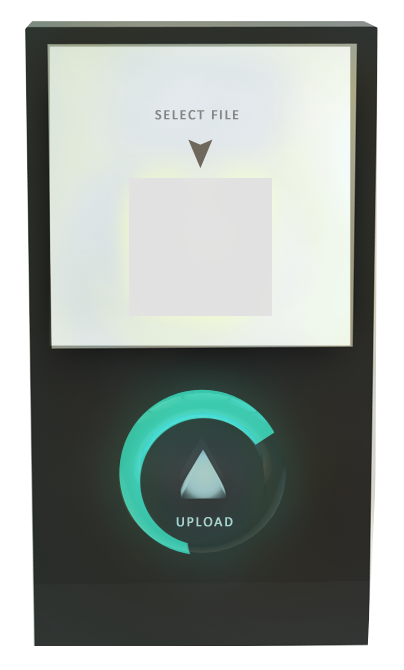
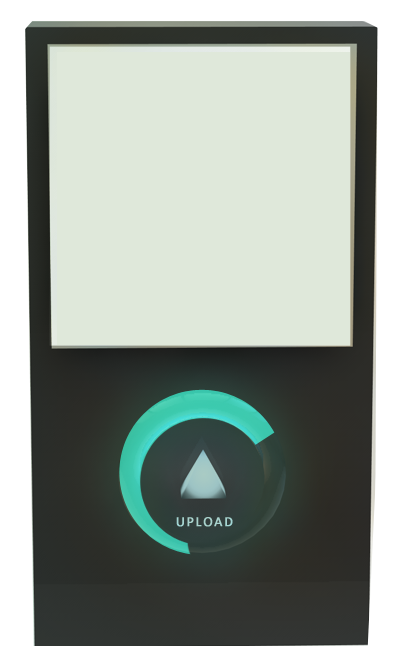
Adding upload file text and styles.

Changed region(s): [[0.802, 0.1493, 0.8911, 0.3284], [0.3861, 0.1493, 0.5941, 0.1791], [0.4752, 0.209, 0.5347, 0.2687]]

diff --git a/index.html b/index.html
@@ -12,17 +12,24 @@
         <div class="upload-area">
         
 
-            <div class="wrap">
-                <div class="cube">
-                    <div class="front"></div>
-                    <div class="back"></div>
-                    <div class="top"></div>
-                    <div class="bottom"></div>
-                    <div class="left"></div>
-                    <div class="right"></div>
+            <div class="upload-top">
+            
+                <div class="upload-file-text">
+                    <h5> Upload File </h5>
+                
                 </div>
-            </div>
-        
+                <div class="wrap">
+                    <div class="cube">
+                        <div class="front"></div>
+                        <div class="back"></div>
+                        <div class="top"></div>
+                        <div class="bottom"></div>
+                        <div class="left"></div>
+                        <div class="right"></div>
+                    </div>
+                </div>
+            
+            </div> <!--upload-top-->
         
         </div>
         <div class="main-form-area">

diff --git a/styles.css b/styles.css
@@ -40,19 +40,31 @@ body{
 }
 
 
-/*------------------------CUBE ---------------------*/
 
-
-.wrap {
-    perspective: 400px;
-    perspective-origin: 50% 50px;
-    top: 30%;
+.upload-top {
+    top: 10%;
     margin: 0px auto;
     position: relative;
     left: 38%;
 
 }
+.upload-file-text{
 
+    text-transform: uppercase;
+    color: rgb(79, 83, 79);
+    margin: 50px 0px;
+
+
+}
+/*------------------------CUBE ---------------------*/
+
+
+.wrap {
+    margin-top: 30px;
+    perspective: 400px;
+    perspective-origin: 50% 50px;
+
+}
 
 .cube {
     position: relative;
@@ -104,8 +116,13 @@ body{
     to { transform: rotateY(360deg); }
 }
 
-.cube {
-    animation: spin 5s infinite linear;
+.cube{
+    animation: spin 5s infinite linear paused;
+    cursor: pointer;
+
+}
+.cube:hover {
+    animation: spin 5s infinite linear running;
 }
 
 
